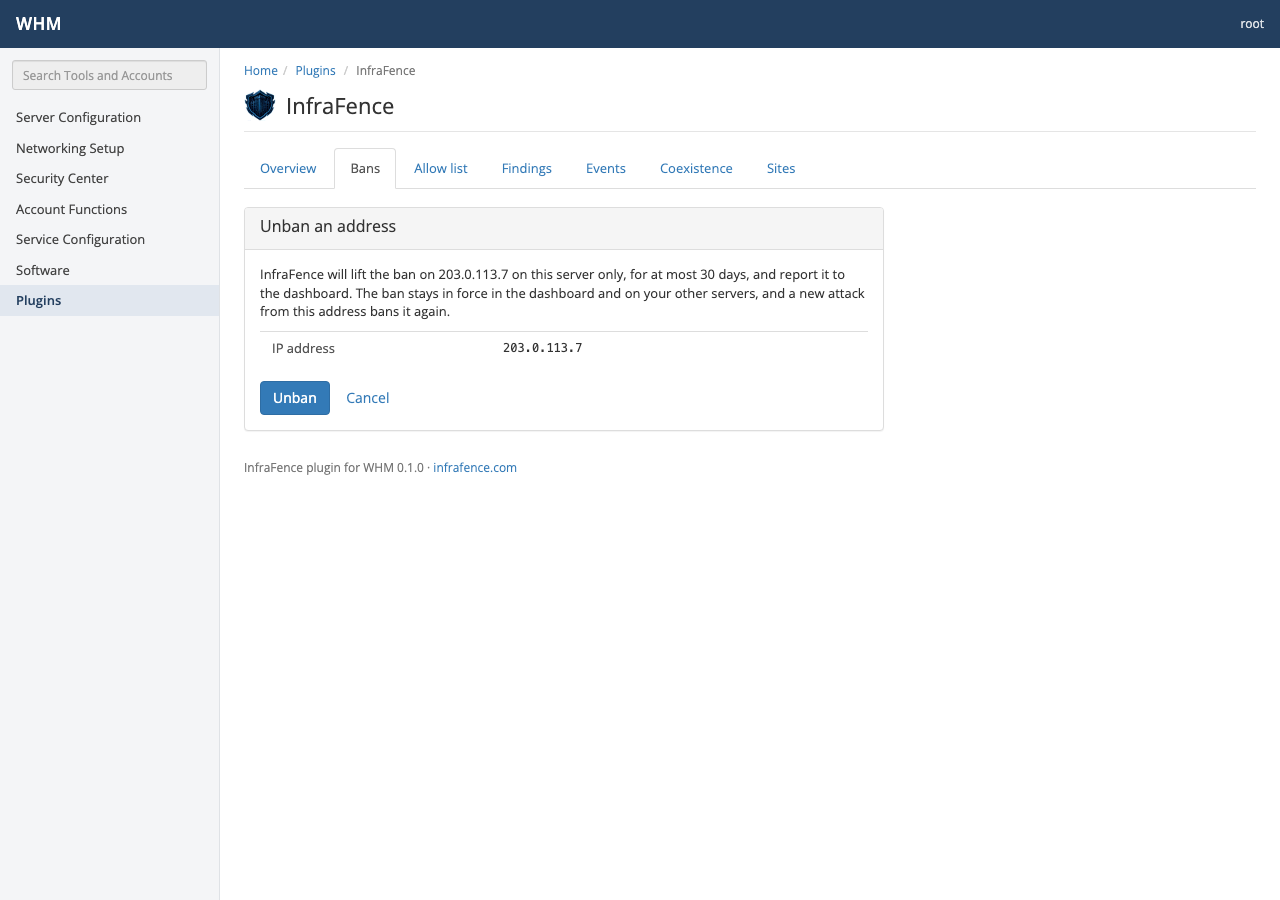
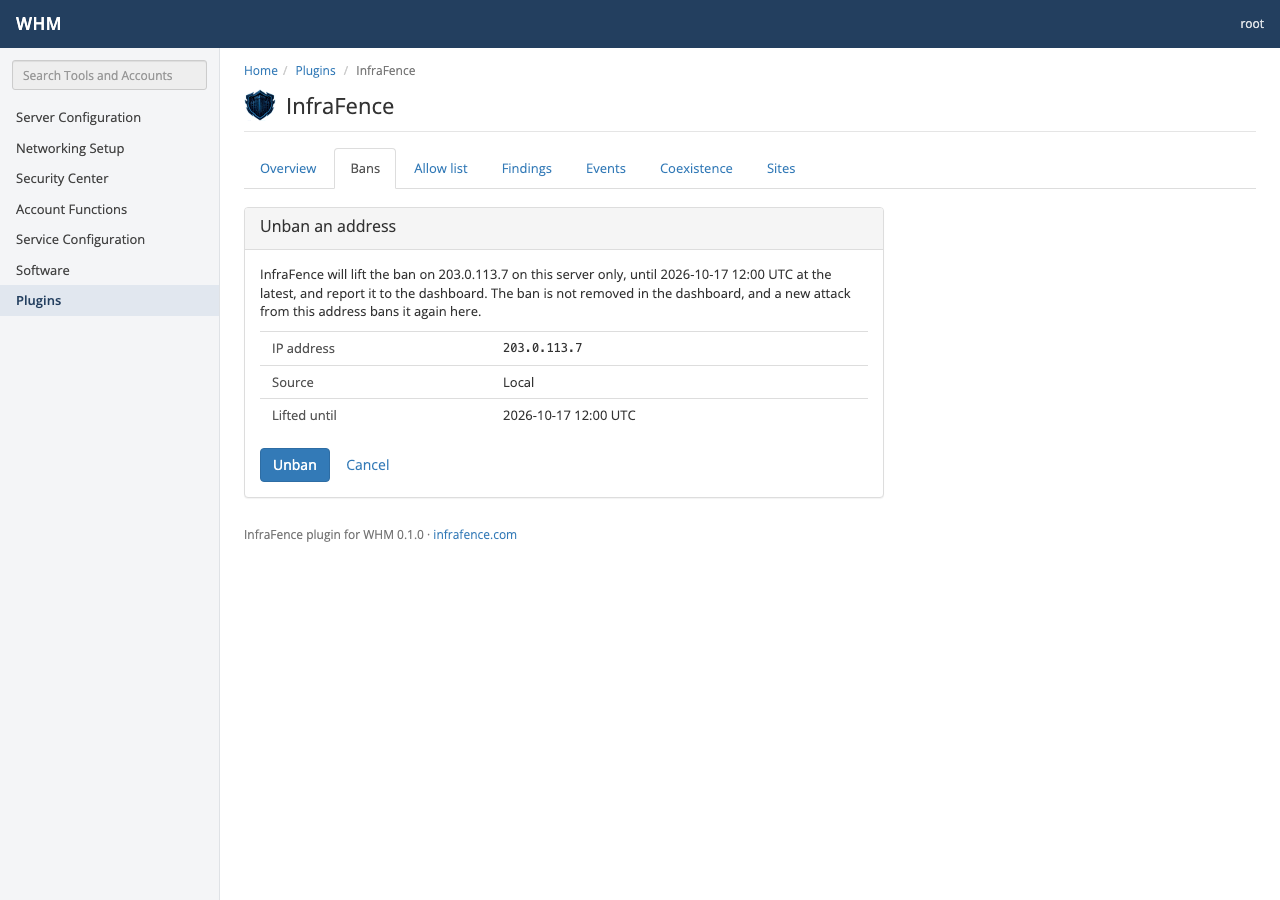
WHM plugin: local unban scope, own address, scan reasons, root only
Follow the fields the agent added after its security review
(docs/panel-json.md, copied again with the testdata link pointing to
github.com/infrafence/infrafence-agent).

- Unban: the confirmation looks up the ban and says the lift is on this
  server only, until which date (the ban's expiry, at most 30 days), with
  its source. The result uses the agent's lifted_until and source. For
  network and AutoMode bans both say the organization keeps the ban on
  its other servers.
- Allow: own_address shows a warning; loopback_address is translated.
- Sites: Scan now only when scannable; otherwise a short reason (no
  document root, no account, not owned by the account). not_scannable is
  checked before asking the agent; not_scannable and not_a_document_root
  are translated.
- TESTING.md: the data is server-wide, so v1 stays root only; checks
  for resellers and cPanel users.
- test/lab.sh (make lab-up / lab-down): long-running containers with the
  plugin installed, for manual checks.
- Tests, screenshots and translations updated.

diff --git a/whm/TESTING.md b/whm/TESTING.md
@@ -8,10 +8,25 @@
 | `make install-test` | `install.sh` and `uninstall.sh` on a fake `/usr/local/cpanel` tree on AlmaLinux 8, 9 and 10: checks fail cleanly without cPanel or on an old version, `--check` changes nothing, install, reinstall, repair from the installed copy, conflicts, rollback when registration fails, uninstall and uninstall again, and that no service is restarted. It also runs the installed CGI against the mock agent, with stub `Whostmgr::ACLS`, `Cpanel::Template` and `Cpanel::Locale`. |
 | `make packages` | Builds `dist/` (tar.gz, noarch RPM, `.deb`) in Docker. |
 | `make package-test` | Installs, upgrades and removes the RPM on AlmaLinux 8/9/10 and the `.deb` on Ubuntu 24.04, with and without the fake cPanel tree. |
+| `make lab-up` / `make lab-down` | Starts (or removes) long-running containers with the fake cPanel tree, the plugin installed (tarball on AlmaLinux 8/9/10, `.deb` on Ubuntu 24.04) and the mock agent, for checking things by hand. See the header of `test/lab.sh`. |
 | `make screenshots` | Renders every screen with the mock agent and saves PNGs to `docs/screenshots/` (needs Chrome or Chromium). |
 
 The fake tree and the stubs only exist inside throwaway containers. The test scripts refuse to run outside
 a container.
+
+## Scope: server-wide data, root only
+
+Every reply from the agent covers the whole server: all accounts' sites, bans, events and findings, and the
+server's allow list. The agent has no notion of resellers or account owners. In v1 the plugin is therefore
+for root (and users with the `all` privilege) only, and must never be reachable by resellers or cPanel users:
+
+- AppConfig registers it with `acls=all`, so WHM lists it only for those users.
+- The CGI checks `Whostmgr::ACLS::hasroot()` itself and answers 403 otherwise, even when the URL is opened
+  directly.
+- Nothing is installed for cPanel users (no cPanel plugin, no Jupiter/Meridian entry).
+
+Covered without cPanel by `make install-test` (a non-root ACL gets 403). On a real server, see step 2 below.
+A per-reseller view would need filtering by account in the plugin and is not part of v1.
 
 ## On a real cPanel & WHM server
 
@@ -53,7 +68,8 @@ AlmaLinux 9 (also repeat 1–5 on AlmaLinux 8, CloudLinux and Ubuntu 24.04 when 
 - [ ] Open a confirmation URL with a different `/cpsess…/` token: WHM itself refuses it.
 - [ ] `chmod 0777 /usr/local/bin/infrafence-agent` and reload: the page reports the binary is not trusted. Restore `0755`.
 - [ ] Change the WHM language (top right: user menu » Change Language) to Italiano, Español, Français, Deutsch and Português: the plugin follows. Check `pt_br` also maps to Portuguese.
-- [ ] Log in as a reseller with some privileges (not "all"): the plugin is not listed, and opening `/cgi/infrafence/index.cgi` directly gives "Access denied".
+- [ ] Log in as a reseller with some privileges (not "all"): the plugin is not listed, and opening `/cgi/infrafence/index.cgi` directly gives "Access denied". Repeat as a reseller that owns accounts: still denied (the data is server-wide).
+- [ ] Log in to cPanel as an account user: there is no InfraFence entry anywhere.
 - [ ] Remove the mock (`rm -r /usr/local/bin/infrafence-agent /usr/local/bin/fixtures /usr/local/bin/scenarios`).
 
 ### 3. With the real agent
@@ -62,7 +78,7 @@ Add the server in the dashboard (Servers > Add server) and run the command shown
 
 - [ ] Overview: version, heartbeat under 3 minutes old, last sync, server ID, hosting panel "cPanel & WHM", plan. "Open in InfraFence" opens the right server on the dashboard. In the dashboard's request log, the Referer does not contain `/cpsess`.
 - [ ] Turn monitor mode on in the dashboard: Overview shows "Monitor mode" and Bans says the bans are not enforced. Turn it off again.
-- [ ] Ban a test address from another machine (e.g. failed SSH logins), find it under Bans, unban it. The message says the lift is on this server only and when it ends. The dashboard shows the `panel_unban` event with actor `root`, and the ban is still in force on the organization's other servers.
+- [ ] Ban a test address from another machine (e.g. failed SSH logins), find it under Bans, unban it. The confirmation and the result say the lift is on this server only and until which date (the ban's expiry, at most 30 days). For a network or AutoMode ban, both also say the organization keeps the ban on its other servers. The dashboard shows the `panel_unban` event with actor `root`, and the ban is still in force on the organization's other servers.
 - [ ] Allow the server's own public address: the warning says it is one of the server's own addresses. Allow `127.0.0.1`: refused (loopback).
 - [ ] Add and remove an allow-list entry, with a note containing accents (e.g. "Ufficio Città").
 - [ ] Sites: a document root outside the account's home (or not owned by it) shows "Cannot be scanned" and no Scan now button.

diff --git a/docs/panel-json.md b/docs/panel-json.md
@@ -5,7 +5,7 @@ This file and the agent's code are checked against each other: the examples are 
 `TestPanelJSONReference` (`cmd/infrafence-agent/panel_json_test.go`) starts the real panel socket over a
 known agent state (a cPanel server with bans of every source, an allow list, events, findings and two
 accounts), runs the CLI as its own process for every command and fills in the examples below. The same
-outputs are in [`testdata/panel/`](../testdata/panel), byte for byte as printed (one line, then a newline);
+outputs are in [`testdata/panel/`](https://github.com/infrafence/infrafence-agent/tree/main/testdata/panel), byte for byte as printed (one line, then a newline);
 here they are only indented. The test fails if the CLI no longer prints them, if a field is missing from
 the tables below, or if a field marked "always" is missing from an output. After a change to the output:
 `go test ./cmd/infrafence-agent -run TestPanelJSONReference -update-panel-json`.
